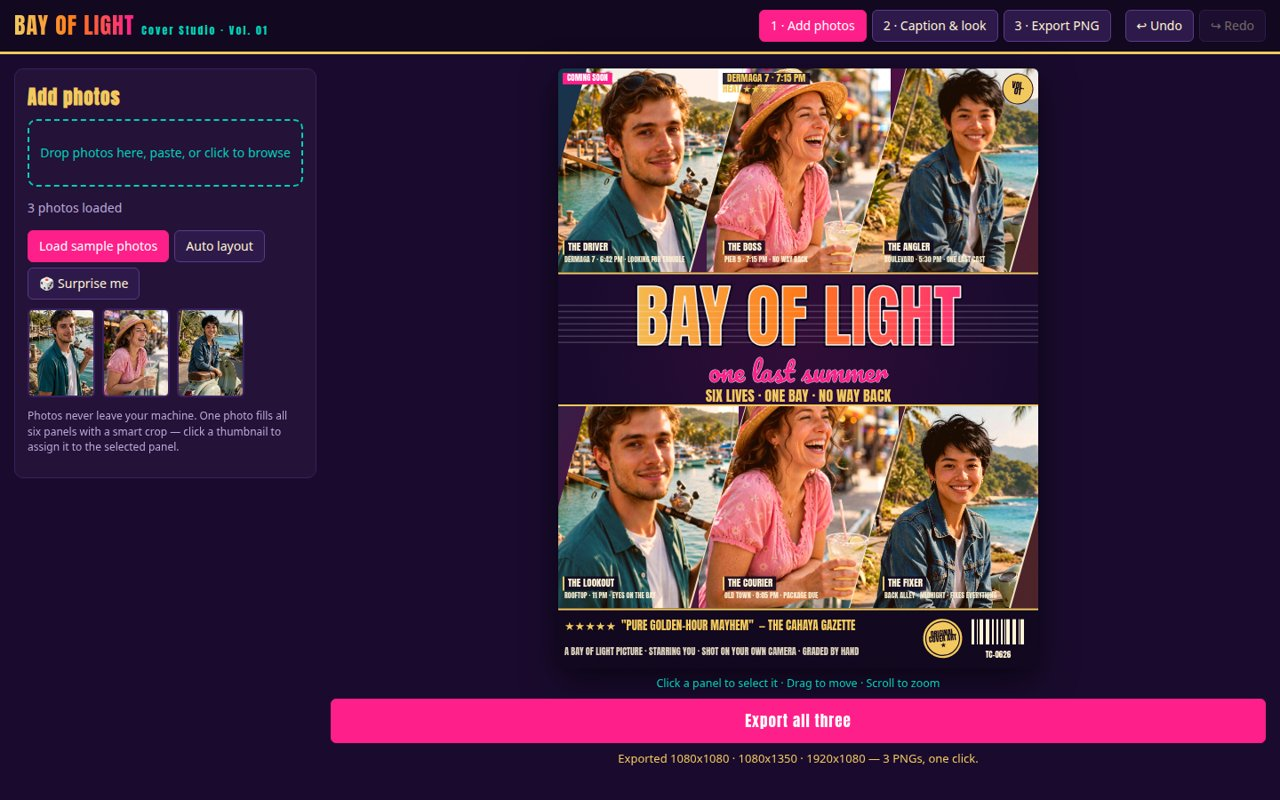
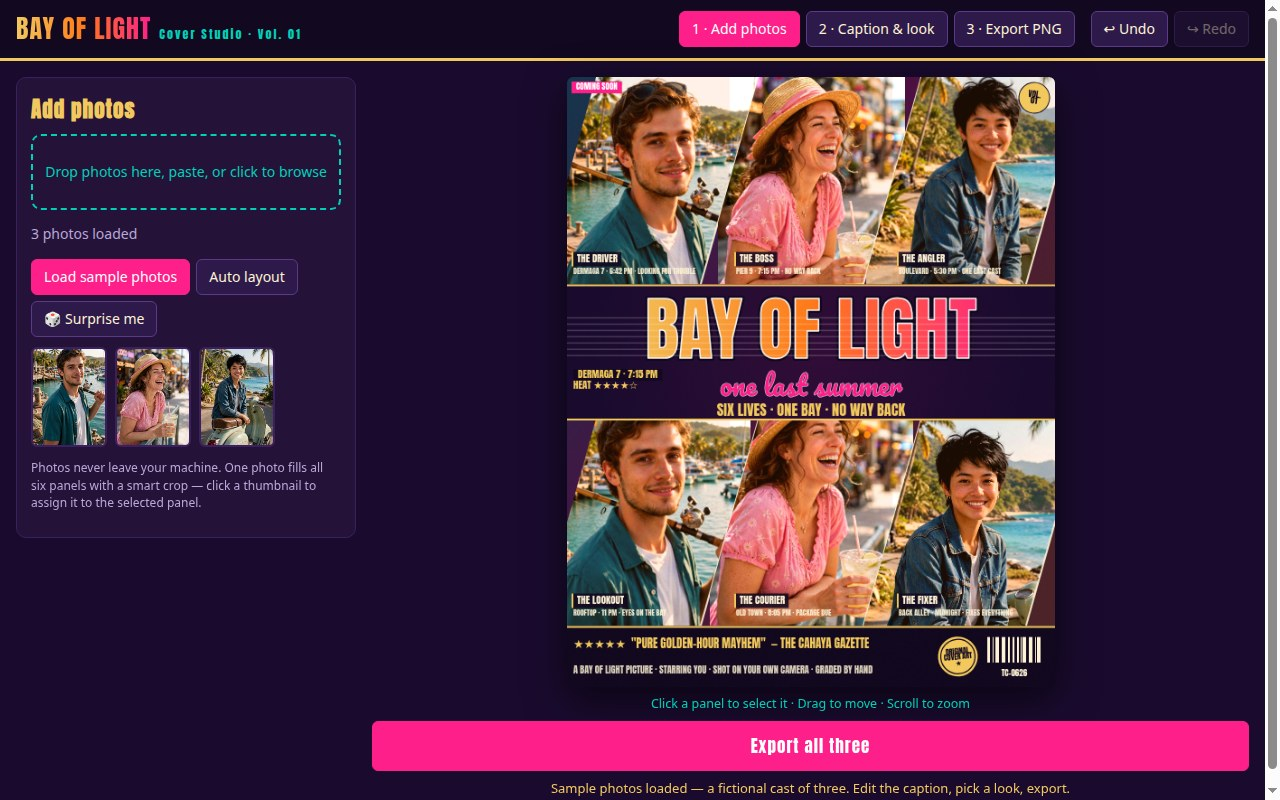
Move location + HEAT chip into the title band
The chip was anchored to the top-left of the hero panel (THE BOSS in
harbor6), so HEAT sat under her hat brim: stars clipped in portrait,
text grazing the panel edge in landscape. Anchor it to the left end of
the title band instead (below the title, beside the script/tagline
rows): solid-colour ground, so it can never cover a face, hat or panel
text in any export size. No other change: same chip text, same style,
same palette/layout/photos.

diff --git a/app/src/cover.js b/app/src/cover.js
@@ -216,10 +216,11 @@ export function drawCover(canvas, state) {
   // Role tags + sub-lines.
   if (state.extras?.tags !== false) panels.forEach((p) => drawRoleTag(ctx, p, p.role || ROLES[0], p.sub || SUBS[0], W));
 
-  // Location chip + heat on the hero panel.
+  // Location chip + heat inside the title band (left, below the title):
+  // the band is solid colour, so the chip can never cover a face, a hat or
+  // panel text — the old hero-panel anchor put HEAT under THE BOSS's hat.
   if (state.extras?.heat !== false) {
-    const hp = L.heroRect || panels[1] || panels[0];
-    const cx = hp.x + 10 * u, cy = hp.y + 10 * u;
+    const cx = 14 * u, cy = b.y + b.h * 0.63;
     ctx.font = `${Math.max(11, 15 * u)}px Anton, sans-serif`;
     const chip = 'DERMAGA 7 · 7:15 PM';
     const cw = ctx.measureText(chip).width + 20 * u;
